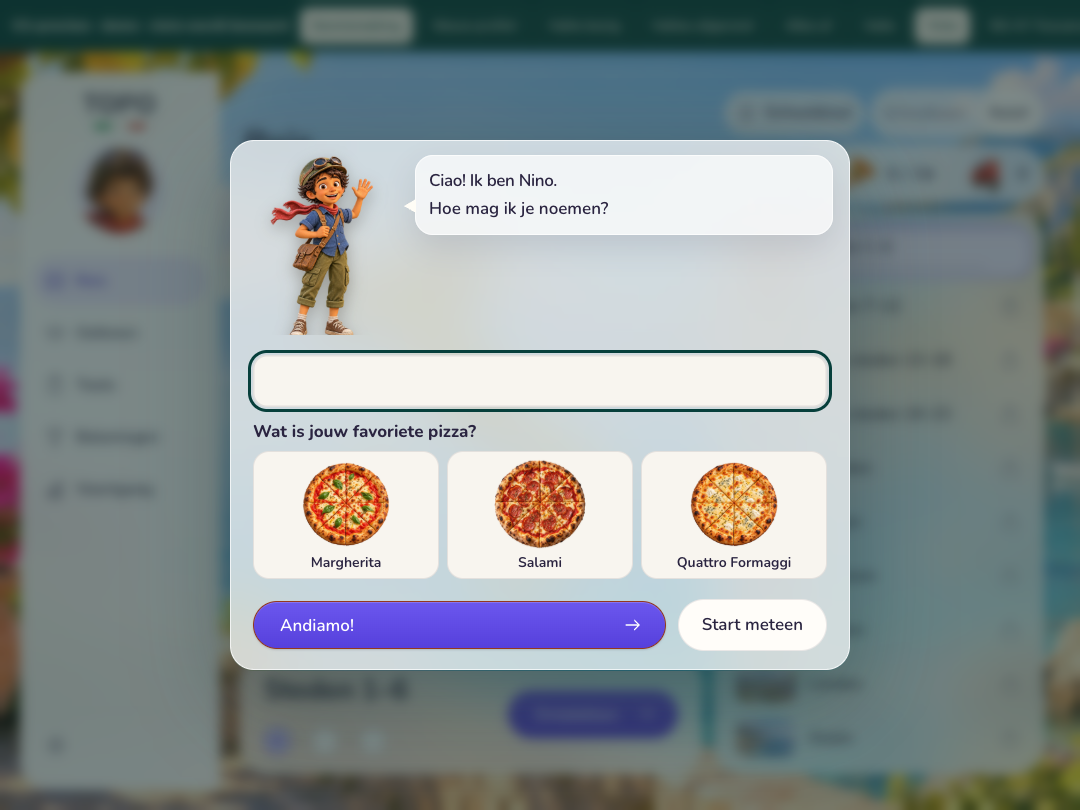
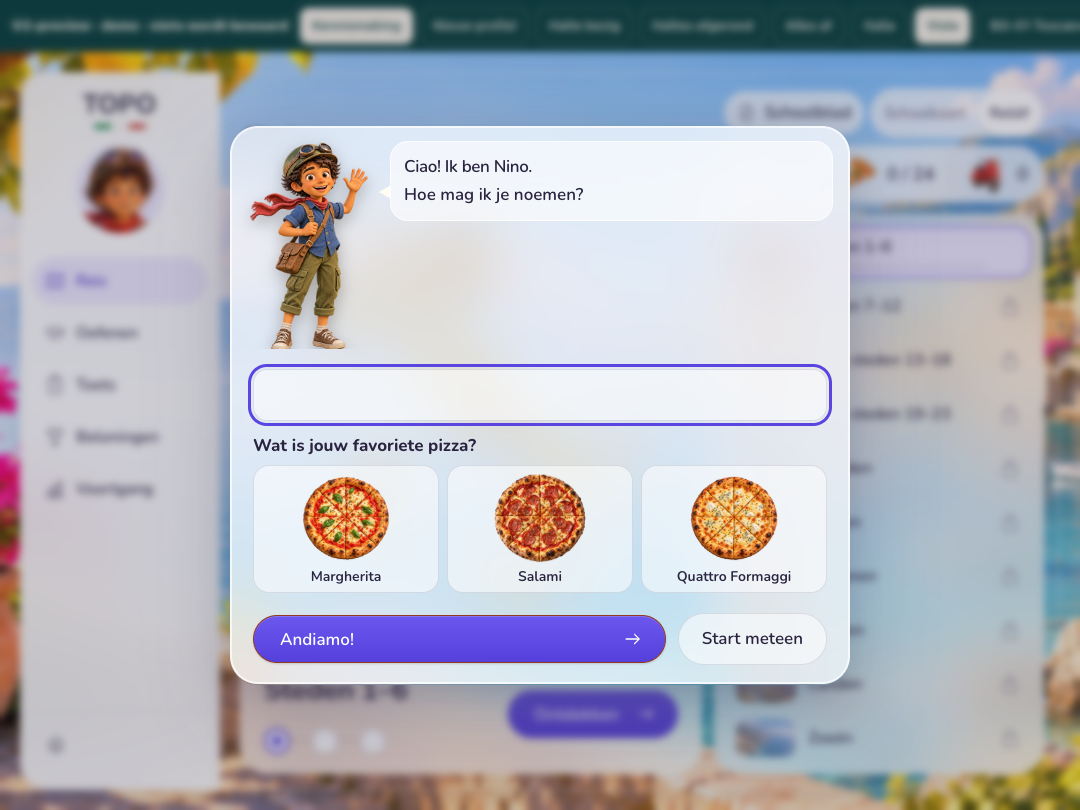
style(v3): kennismaking als glaspaneel, violette focusring, Nino groter (ronde 4 punt 2)
Geen crèmekleurige platen meer in het venster; focusring in --v3-accent.
Nino ~210 px zichtbaar (was ~183; '±160' lag onder de huidige maat,
'groter' is gevolgd, akkoord eigenaar).

diff --git a/scripts/v3/ronde4.css b/scripts/v3/ronde4.css
@@ -1,0 +1,15 @@
+/* Ronde 4 (docs/v3/OVERDRACHT.md › Ronde 4). Presentation only; V2 behaviour, keyboard and focus order are unchanged. */
+
+/* 2. Kennismaking: one glass panel (no cream plates inside), a violet focus ring instead of V2's green. */
+dialog.ninoProfile.v3Welkom{background:var(--v3-glass,rgba(255,255,255,.72));-webkit-backdrop-filter:var(--v3-glass-filter,blur(28px) saturate(1.4));backdrop-filter:var(--v3-glass-filter,blur(28px) saturate(1.4));border:1px solid rgba(255,255,255,.7);border-radius:var(--v3-radius-glass,28px);box-shadow:var(--v3-glass-shadow),0 30px 80px rgba(42,36,64,.24)}
+dialog.v3Welkom::backdrop{background:rgba(42,36,64,.22);-webkit-backdrop-filter:blur(4px);backdrop-filter:blur(4px)}
+.v3Welkom.ninoFirstRun .profileScene{background:transparent}
+.v3Welkom .profileBubble{background:rgba(255,255,255,.6);box-shadow:inset 0 0 0 1px rgba(255,255,255,.7)}
+.v3Welkom .profileName input,.v3Welkom .profileChoice,.v3Welkom .profileActions [data-profile-cancel]{background:rgba(255,255,255,.55);box-shadow:inset 0 0 0 1px rgba(42,36,64,.12)}
+.v3Welkom .profileChoice:has(input:checked){background:var(--v3-accent-soft);box-shadow:inset 0 0 0 2px var(--v3-accent)}
+.v3Welkom :focus-visible,.v3Welkom .profileName input:focus{outline:3px solid var(--v3-accent);outline-offset:2px}
+.v3Welkom .profileChoice:has(:focus-visible){outline:3px solid var(--v3-accent);outline-offset:2px}
+.v3Welkom .profileChoice :focus-visible{outline:0}
+/* Nino larger: ~210 px visible figure (the pose's figure is 96.6% of the image height). */
+.v3Welkom.ninoFirstRun .profileScene{min-height:0}
+.v3Welkom .profileWelcome{width:145px;height:218px}

diff --git a/scripts/qa-v3-ronde4.py b/scripts/qa-v3-ronde4.py
@@ -23,6 +23,14 @@ LANDMARKS='''map=>{
   pinAbove:!top||!!(lm.compareDocumentPosition(top)&Node.DOCUMENT_POSITION_FOLLOWING)};
 }'''
 
+WELKOM='''()=>{
+ const d=document.querySelector('dialog.v3Welkom'),cs=getComputedStyle(d),alpha=c=>{const m=c.match(/rgba?\(([^)]+)\)/);if(!m)return 0;const v=m[1].split(',').map(Number);return v.length>3?v[3]:1;};
+ const plates=[...d.querySelectorAll('*')].filter(n=>!n.matches('.primary,.primary *')&&!n.matches('.profileChoice:has(:checked)')&&n.getClientRects().length&&alpha(getComputedStyle(n).backgroundColor)>=.9).map(n=>n.tagName+'.'+n.className);
+ const i=d.querySelector('[name=name]');i.focus();const focus=getComputedStyle(i).outlineColor;i.blur();
+ const img=d.querySelector('.profileWelcome').getBoundingClientRect(),r=d.getBoundingClientRect();
+ return {glass:alpha(cs.backgroundColor)<.9&&cs.backdropFilter!=='none',plates,focus,nino:Math.round(img.height*1159/1200),fits:r.top>=0&&r.bottom<=innerHeight&&d.scrollHeight<=d.clientHeight+1,dialog:[Math.round(r.width),Math.round(r.height)]};
+}'''
+
 async def act(p,selector,touch=False):
  n=p.locator(selector).filter(visible=True).first
  await (n.tap(timeout=2500) if touch else n.click(timeout=2500))
@@ -46,6 +54,16 @@ async def check(p,n,touch,vp):
   await p.evaluate('document.activeElement?.blur?.()');await p.mouse.move(1,1);await p.wait_for_timeout(300)
   await p.screenshot(path=str(OUT/f'toetsResult-{vp}.png'));shots.append('toetsResult')
   return shots,{'reis':r,'toetsResult':r2}
+ if n==2:
+  await p.goto(q.HTML.as_uri()+'#welkom/bg03');await p.wait_for_timeout(900)
+  r=await p.evaluate(WELKOM)
+  assert r['glass'] and not r['plates'],r
+  assert r['focus']=='rgb(91, 69, 224)',r
+  assert 200<=r['nino']<=220,r
+  assert r['fits'],r
+  await p.locator('.v3Welkom [name=name]').focus();await p.wait_for_timeout(150)
+  await p.screenshot(path=str(OUT/f'kennismaking-{vp}.png'));shots.append('kennismaking')
+  return shots,r
  raise SystemExit('unknown point')
 
 async def main(point):
